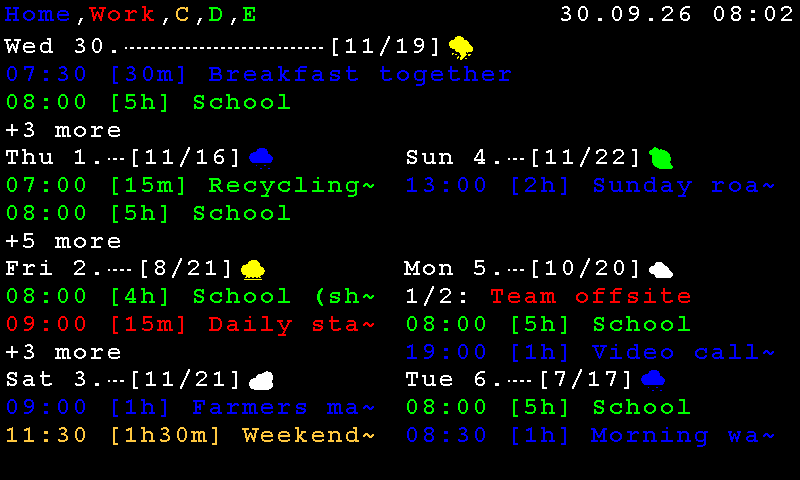
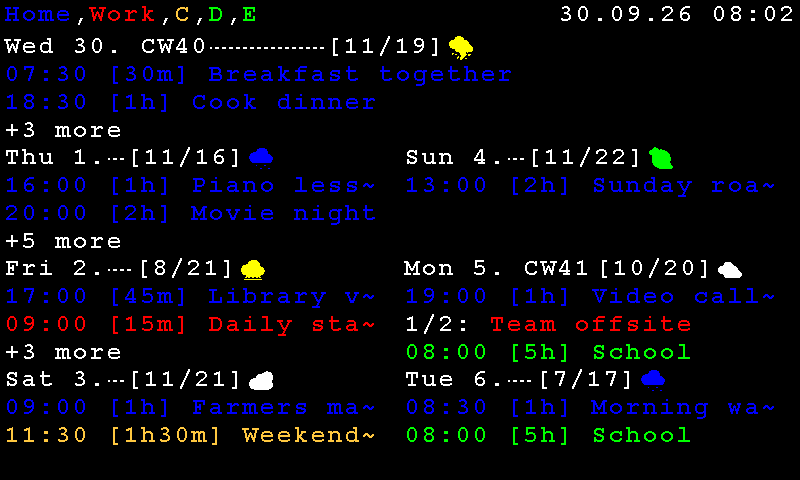
docs: the Agenda pictures redrawn with the priority and the week; list pictures
The five Agenda pictures are drawn again by the real agenda_renderer.c (they now
show the calendar order by priority and the week in today's heading), and three
new ones show the 3-day list, the list with another priority and the rotation
pattern in the list layout. SCREENSHOTS.md describes them.

diff --git a/docs/SCREENSHOTS.md b/docs/SCREENSHOTS.md
@@ -26,6 +26,26 @@ events:
 
 <img src="screens/agenda-grid-b.png" width="560" alt="The Agenda as a 7-day grid, template B: today in a double-height cell">
 
+### The list, the priority of the calendars and the week
+
+With **Layout -> List** the Calendar shows one to three days (plus a few rows of the next). The entries of a day come in the order of
+**Settings -> Agenda -> Calendar -> Calendar priority** (default `A,B,C,D,E`: the household calendar A first, then work B, ...), each calendar by
+time, and when the rows run out the entries of the **lowest** priority are the ones left to `+N more` - not whatever comes last. Today's
+heading and every Monday's carry the calendar week (`CW40`, `KW40` with German overlay text) where it fits beside the forecast. See
+[CALENDAR_PRIORITY.md](CALENDAR_PRIORITY.md).
+
+<img src="screens/agenda-list-3days.png" width="560" alt="The Agenda as a list of days: the entries of calendars A and B first, the lower priority ones counted in +8 more">
+
+The same week with the priority `D,E,B,A,C` (school and chores first): what used to be hidden at the bottom is shown, and the household
+entries are the ones counted in `+8 more`:
+
+<img src="screens/agenda-list-3days-priority.png" width="560" alt="The same list with the priority D,E,B,A,C">
+
+The **rotation pattern** (2-2-3, week / week, 3-4) marks days in the list as well, here "2-2-3" starting on Tuesday 29 September, with the
+built-in profile's yellow mark:
+
+<img src="screens/agenda-list-3days-marked.png" width="560" alt="The list with every other stretch of days marked in yellow">
+
 ### ToDo and Calendar together
 
 With both columns shown, **Settings -> Agenda -> Appearance** puts them **stacked** (the ToDo list above the Calendar, the
@@ -105,7 +125,7 @@ The program knows more cases than are shown here (German variants, empty and err
 **The Agenda pictures** (`agenda-*.png`) and **the artworks picture** (`artworks-caption.png`: a public-domain painting, letterboxed, with
 the real caption drawing) come from small programs that are not part of this repository. The Agenda pictures are the real `agenda_renderer.c` and colour-profile loader, run on a PC with made-up sources (a week of
 events in five calendars, a ToDo list, a forecast) on the fixed day above. The small program that did it is **not part of this repository**, so
-these six pictures cannot be redrawn from a checkout; the colour profile in `agenda-grid-a-profile.png` is
+these pictures cannot be redrawn from a checkout; the colour profile in `agenda-grid-a-profile.png` is
 [color-profile-slot1-BW.json](../examples/waveshare_photopainter_73/color_profiles/color-profile-slot1-BW.json).
 
 Keep the sample data made up: no real names, places, calendars or prices of real shops.
